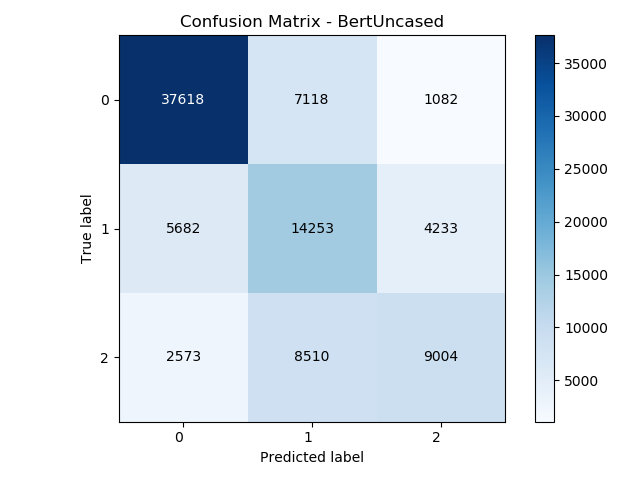
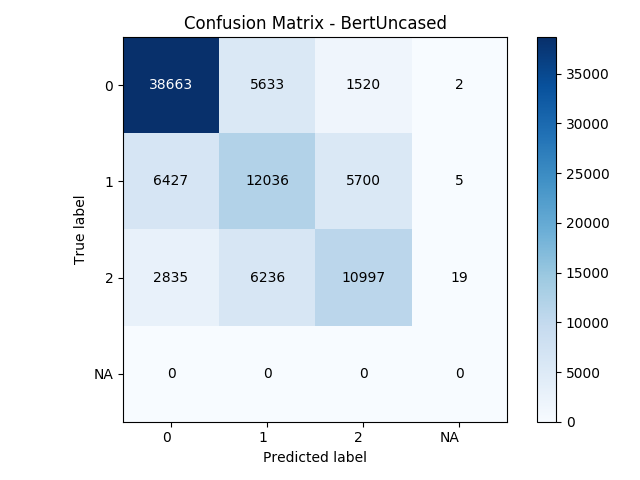
updated how NA is handled

diff --git a/main.py b/main.py
@@ -287,8 +287,13 @@ def valid(model, iterator, criterion, tag_to_index, index_to_tag, device, config
             tagslice = tags.split()
             predsslice = preds
         for t, p in zip(tagslice, predsslice):
-            true.append(t)
-            predictions.append(p)
+            if config.ignore_punctuation:
+                if t != 'NA':
+                    true.append(t)
+                    predictions.append(p)
+            else:
+                true.append(t)
+                predictions.append(p)
 
     # calc metric
 
@@ -355,8 +360,13 @@ def test(model, iterator, criterion, tag_to_index, index_to_tag, device, config)
                 wordslice = words.split()
             for w, t, p in zip(wordslice, tagslice, predsslice):
                 results.write("{}\t{}\t{}\n".format(w, t, p))
-                true.append(t)
-                predictions.append(p)
+                if config.ignore_punctuation:
+                    if t != 'NA':
+                        true.append(t)
+                        predictions.append(p)
+                else:
+                    true.append(t)
+                    predictions.append(p)
             results.write("\n")
 
     # calc metric
@@ -366,7 +376,9 @@ def test(model, iterator, criterion, tag_to_index, index_to_tag, device, config)
     #y_true = np.array([index_to_tag[index] for index in true])
     #y_pred = np.array([index_to_tag[index] for index in predictions])
 
-    classes = ['0', '1', '2'] if config.ignore_punctuation else ['0', '1', '2', 'NA']
+    #classes = ['0', '1', '2'] if config.ignore_punctuation else ['0', '1', '2', 'NA']
+    classes = ['0', '1', '2', 'NA']
+
 
     np.set_printoptions(precision=1)
     plot_confusion_matrix(y_true, y_pred, classes, title='Confusion Matrix - ' + config.model)
@@ -385,7 +397,8 @@ def test(model, iterator, criterion, tag_to_index, index_to_tag, device, config)
     print('Recall: {}'.format(round(recall, 4)))
     print('Precision: {}'.format(round(precision, 4)))
 
-    target_names = ['label 0', 'label 1', 'label 2'] if config.ignore_punctuation else ['label 0', 'label 1', 'label 2', 'label NA']
+    #target_names = ['label 0', 'label 1', 'label 2'] if config.ignore_punctuation else ['label 0', 'label 1', 'label 2', 'label NA']
+    target_names = ['label 0', 'label 1', 'label 2']
     print(classification_report(y_true, y_pred, target_names=target_names, digits=4))
 
     # acc = 100. * (y_true == y_pred).astype(np.int32).sum() / len(y_true)

diff --git a/prosody_dataset.py b/prosody_dataset.py
@@ -69,13 +69,8 @@ def load_dataset(config):
                 sent = []
                 for line in lines:
                     split_line = line.split('\t')
-                    if config.ignore_punctuation:
-                        if split_line[1] != 'NA':
-                            sent.append((split_line[0], split_line[1]))
-                            words.append(split_line[0])
-                    else:
-                        sent.append((split_line[0], split_line[1]))
-                        words.append(split_line[0])
+                    sent.append((split_line[0], split_line[1]))
+                    words.append(split_line[0])
                 tagged_sents.append(sent)
         slice = len(tagged_sents) * config.fraction_of_sentences
         tagged_sents = tagged_sents[0:int(slice)]
